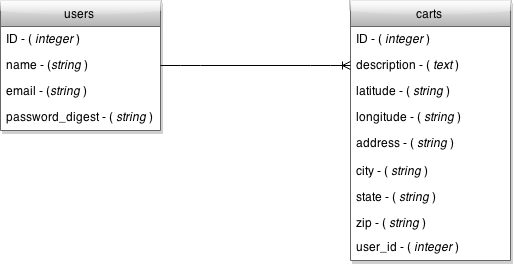
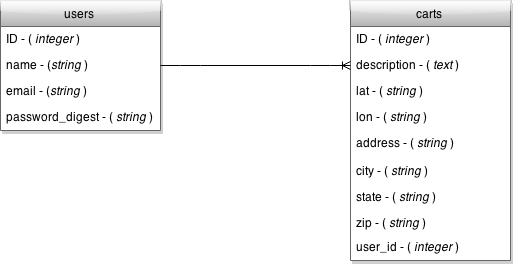
ERD done

Changed region(s): [[0.716, 0.4195, 0.9027, 0.4794], [0.716, 0.3296, 0.8716, 0.3895]]

diff --git a/README.md b/README.md
@@ -3,9 +3,9 @@
 ##Application Description
 
 ###Fruit Cart Finder
-Lorem ipsum dolor sit amet, consectetur adipisicing elit. Iure incidunt atque quas quidem aspernatur. Laborum sed enim, magni consequatur expedita delectus quasi cupiditate omnis? Dolores itaque modi repellat deleniti nemo.
+Finding healthy snacks can be tough proposition these days. Sodas, chips and candy bars call out to us from every direction. Obesity, diabetes and heart disorders are on the rise. Humans are programmed to seek out sugars, fats and high calorie foods because of their relative scarcity in nature. Modern humans need an old school solution...natural foods.
 
-Lorem ipsum dolor sit amet, consectetur adipisicing elit. Provident ut, incidunt obcaecati. Iure et, quod esse dolore? Perferendis, animi ut quis ea laborum mollitia, ducimus aut. Nemo quisquam dolorem veniam?
+Access to fresh fruits as healthy alternatives can be tricky to locate in a city full of hotdog carts and halal trucks. The Fruit Cart Finder solves that problem. Finding a local fruit merchant is as simple as finding your location on a map and checking which vendor is closest to you. Have a favorite fruit cart? Simply sign up for a free fruit cart finder account and add them to the database for others to discover and enjoy.
 
 ##Technology Used
 + Ruby on Rails
@@ -25,3 +25,17 @@ Lorem ipsum dolor sit amet, consectetur adipisicing elit. Provident ut, incidunt
 <img src="./images/Fruit_Cart_Finder_ERD-2.png">
 
 ###Tables
+
+#### Users Table
+|id   |name| email  |password_digest   |
+|---|---|---|---|
+| 1  |Johnny Appleseed| Japple@gmail.com  |apple   |
+| 2  |Anna Bannana| Abannana@gmail.com  | bannana  |
+| 3  | Manny Mango| Mmango@gmail.com  | mango |
+
+
+#### Carts Table
+|id|description|lat|lon|address|city|state|zip|user_id|
+|:-:||---|---|---|---|---|---|---|:-:|
+|1|My fav in the whole area. super friendly  vendor.|40.755313|-73.973238|517 Lexington Ave|N.Y.|N.Y.|10017|1|
+|1|Always fresh. This guy is great.|40.768057|-73.985571|363 W 57th|N.Y.|N.Y.|10019|2|
